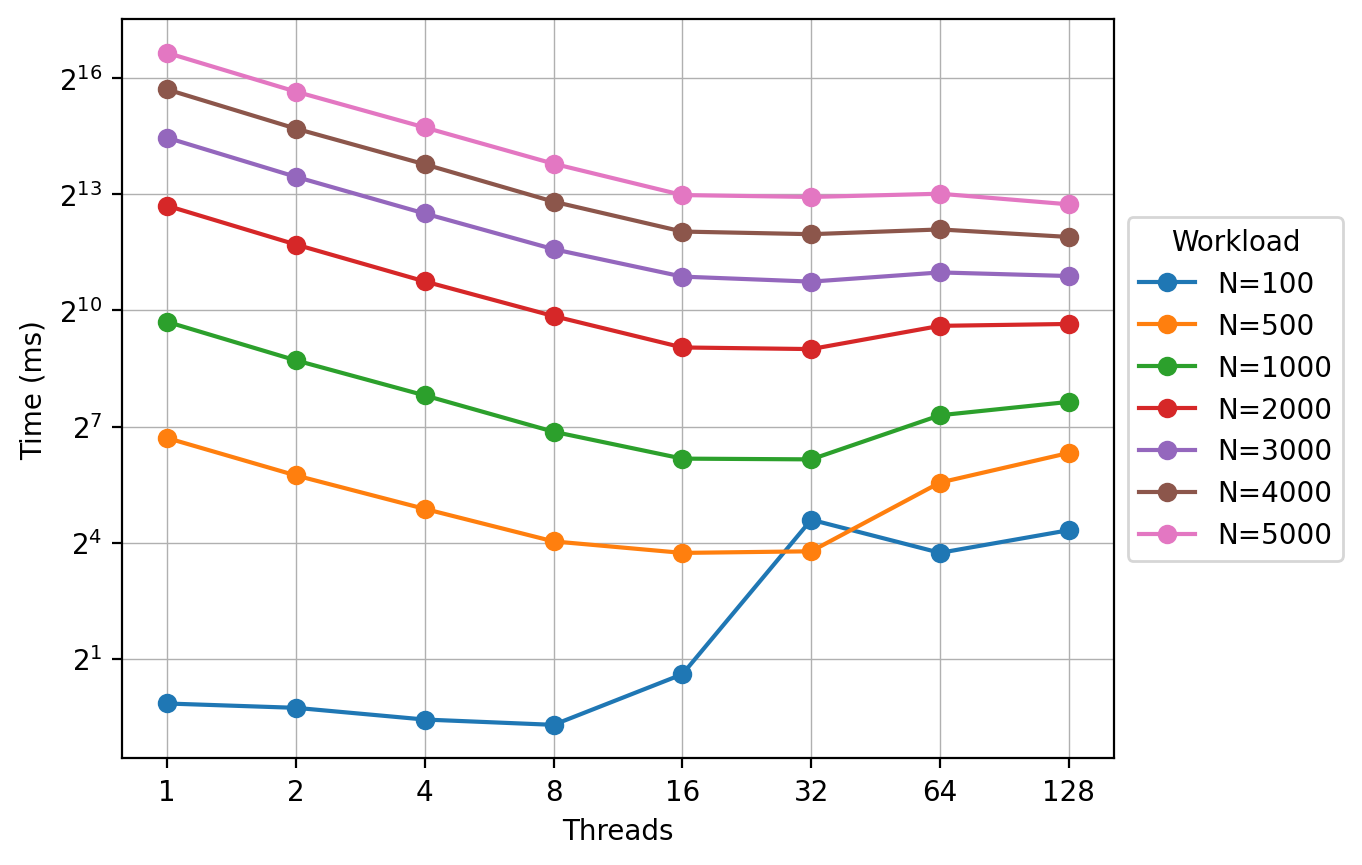
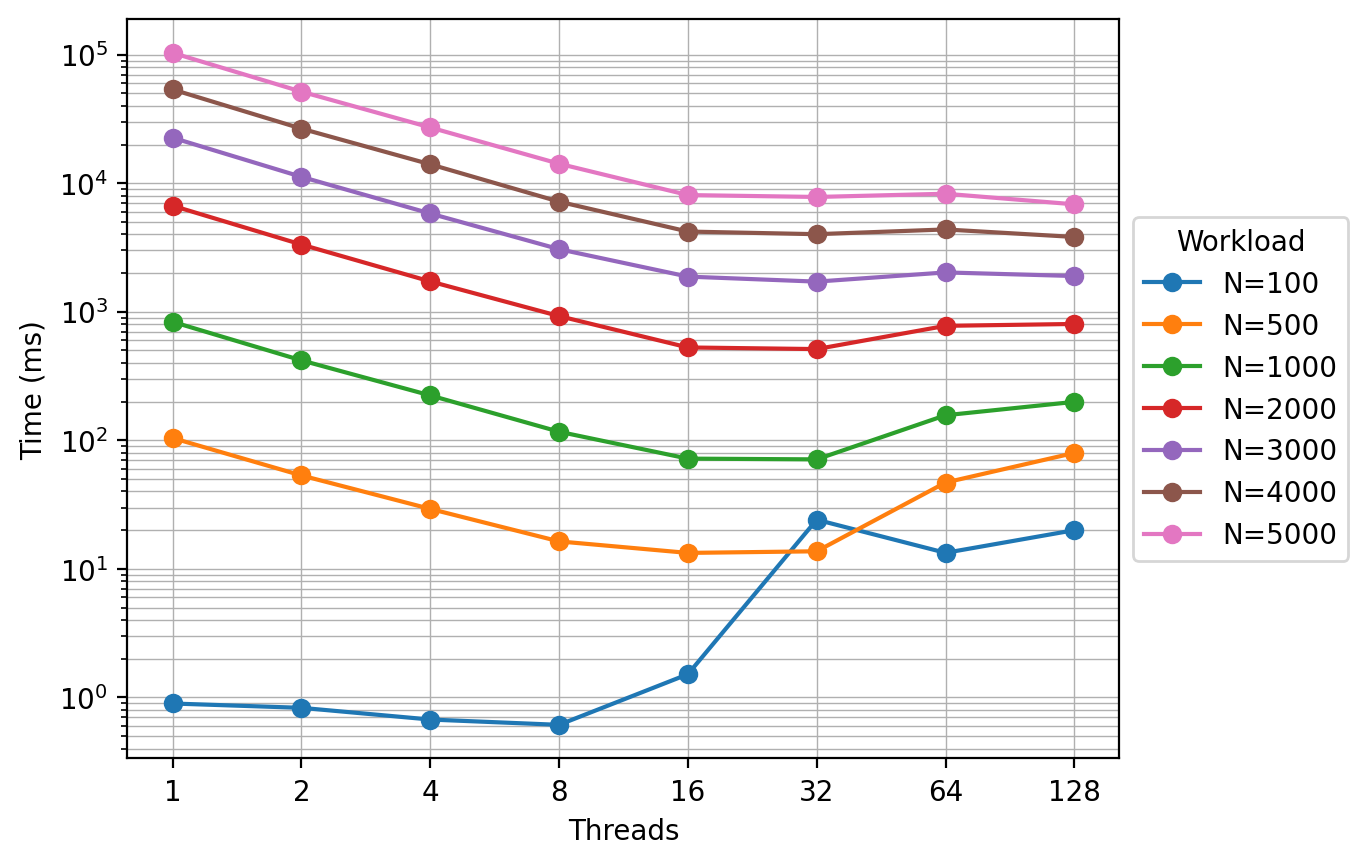
working on design documentation

diff --git a/gaussian-elimination/analysis/theoretical.py b/gaussian-elimination/analysis/theoretical.py
@@ -40,8 +40,8 @@ def draw_figure() -> None:
     
     ax1.legend()
     ax1.legend(loc='center left', bbox_to_anchor=(1, 0.5), title="Workload")
-    ax1.set_yscale("log", base = 2)
-    ax1.set_ylabel("Operations")
+    ax1.set_yscale("log", base = 10)
+    ax1.set_ylabel("log(Operations)")
     ax1.set_xlabel("Processors")
     ax1.grid(which='both', linestyle='-', linewidth=0.5)
     plt.savefig("./figures/parallel-runtime.png", dpi = 200, bbox_inches="tight")

diff --git a/gaussian-elimination/analysis/experimental-1.py b/gaussian-elimination/analysis/experimental-1.py
@@ -23,7 +23,7 @@ def draw_figure():
     
     ax1.legend()
     ax1.legend(loc='center left', bbox_to_anchor=(1, 0.5), title="Workload")
-    ax1.set_yscale("log", base = 2)
+    ax1.set_yscale("log", base = 10)
     ax1.set_ylabel("Time (ms)")
     ax1.set_xlabel("Threads")
     ax1.grid(which='both', linestyle='-', linewidth=0.5)

diff --git a/gaussian-elimination/DESIGN.md b/gaussian-elimination/DESIGN.md
@@ -128,28 +128,42 @@ We will now determine if the parallelization as formulated is effective at scale
 ### 2.2 Discussion
 The results of the theoretical speedup and scalability analysis implies that an idealized parallelization of the gaussian elimination function would result in a *linear* speedup with perfect efficiency, such that all work can be effectively parallelized. In addition to speedup, another pertinent metric to discuss is runtime, for various processor, $p$, and workload $N$, cases. The below figure illustrates the hypothetical $T_p$ for $p\in [1,\text{ }128]$ and $N\in[100,\text{ }5{,}000]$.
 
-<img src="/gaussian-elimination/analysis/figures/experiment1.png" alt="MarineGEO circle logo"/>
+<img src="/gaussian-elimination/analysis/figures/parallel-runtime.png">
+
+Theoretically, a log-linear relationship exists between the number of processors and operation runtime exists, such that runtime proportionally decreases with the number of processors used. Whether that be the case in practice is subject to experimental consideration.
 
 ## 3. Design
 The design and experimentation environment for this experiment was a virtual instance CentOS 8 hosted by [Chameleon Cloud](https://www.chameleoncloud.org/). The instance was physically hosted by a Dell PowerEdge R740 compute node on the Chameleon Cluster, with access to two (2) Intel® Xeon® Gold 6126 Processors.
 
 ### 3.1 Initial Design in `OpenMP`
-Parallelization design began with implementing the source code `gauss.c` with `OpenMP`, a directive-based parallel programming model. The initial design consisted of only minor modifications to the source code in the form of compiler directives.
+Parallelization design began with implementing the source code `gauss.c` with `OpenMP`, a directive-based parallel programming model. The initial design consisted of modifications to the source code in the form of compiler directives and minimal changes to the source code.
+
 ```c
 // 1. Include header file
 #include <omp.h>
 
 void gauss()
 {
-
+    // 1.1 Instantiate private variables for loop indexing
     int norm, row, col; 
     float multiplier;
+
+    // 1.2 Specify number of threads
+    int threads = 8;
 
     printf("Computing in Parallel.\n");
 
     // 2. Begin parallel region for the scope of the gaussian-elimination step
-    #pragma omp parallel num_threads(threads) shared(N, A, B, X) private(norm, row, col, multiplier)
+    #pragma omp parallel num_threads(threads) shared(N, A, B, X, threads) private(norm, row, col, multiplier) default(none)
     {
+		
+	// 2.1 Log number of processors and threads used by OpenMP
+	#pragma omp single nowait
+	{
+	int num_threads = omp_get_num_threads();
+	printf("Threads: %d\n", num_threads);
+	}	
+		
         for (norm = 0; norm < N - 1; norm++)
         {
             // 3. Begin parallel directive
@@ -177,3 +191,13 @@ void gauss()
     }
 }
 ```
+This parallelization includes the following steps:
+- **1.0:** The header line `#include <omp.h>` points the compiler towards `OpenMP`
+- **1.1:** Variables `norm, row, col, multiplier` are instantiated for loop indexing and operations
+- **1.2:** The number of `threads` are specified for parallelization
+- **2.0:** The scope of the parallel region is defined using the directive `#pragma omp parallel num_threads(threads) shared(N, A, B, X, threads) private(norm, row, col, multiplier) default(none)`. This directive includes the prefix to denote shared variables related to the computation of the gaussian-elimination step, and private variables for individual thread processes.
+- **2.1:** The `#pragma omp single nowait` directive was used for debugging purposes, to confirm that the number of specified threads are active using the program printout. The `nowait` clause allows for one thread to perform the `single` section and the rest of the threads to proceed to the rest of the parallel region.
+- **3.0** The parallel directive `#pragma omp for` specifies the beginning of parallel directive at the middle loop.
+
+### 3.2 Design Validation
+
